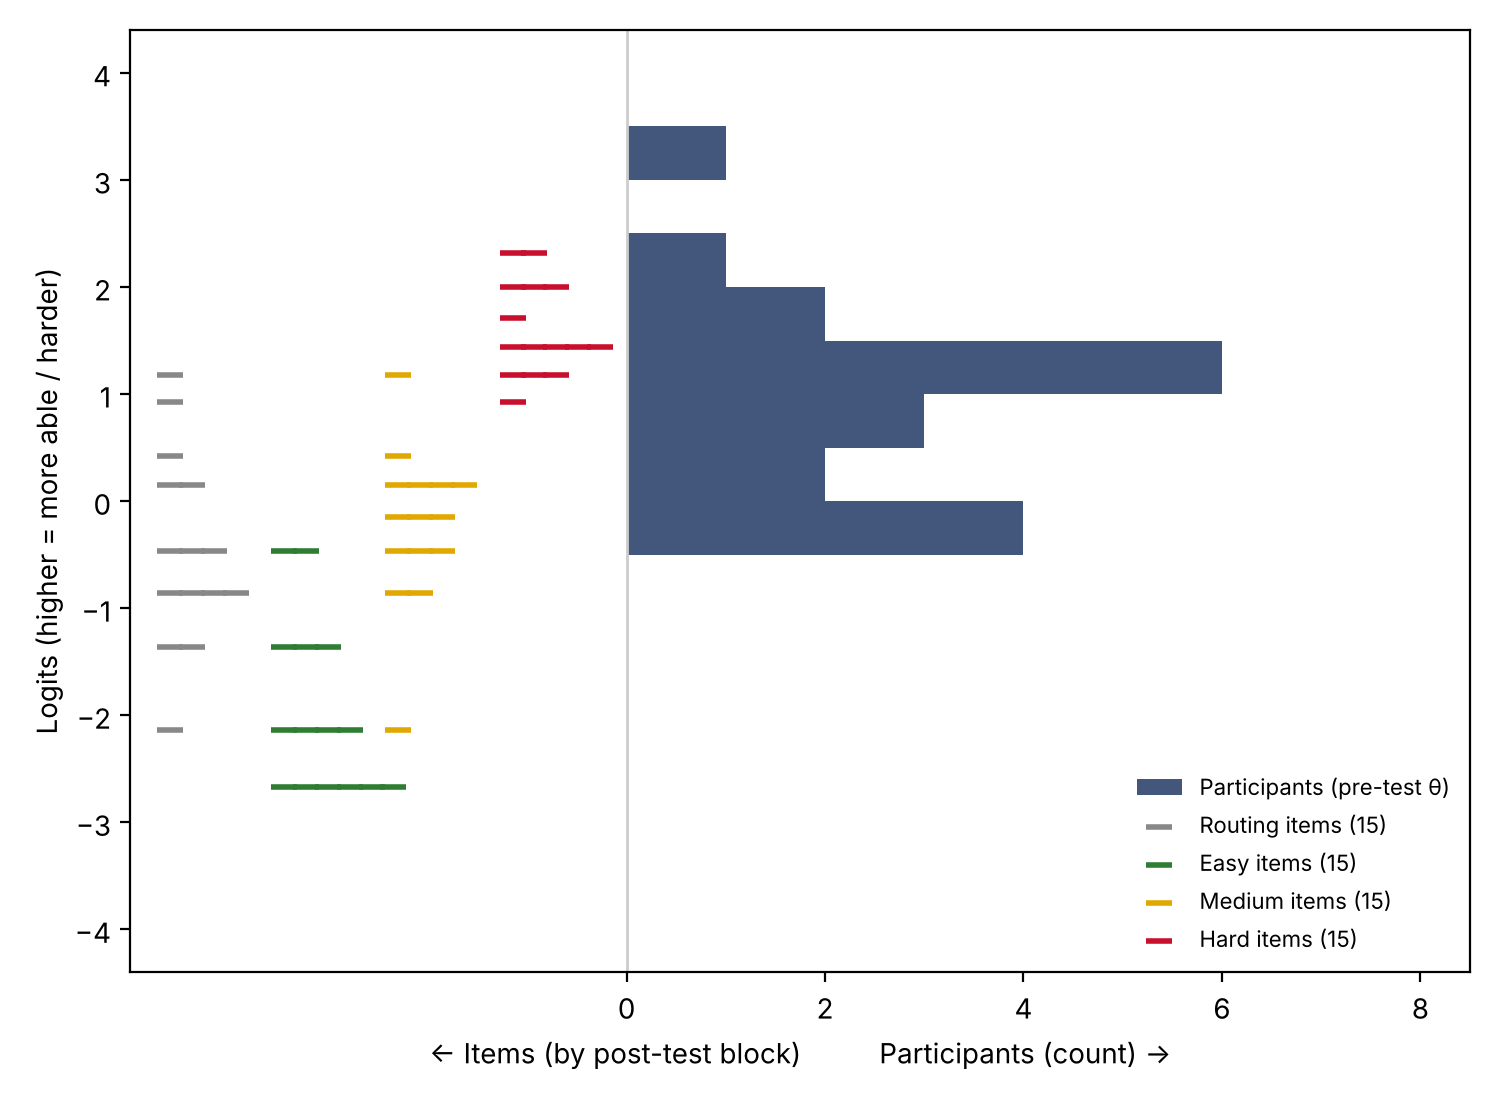
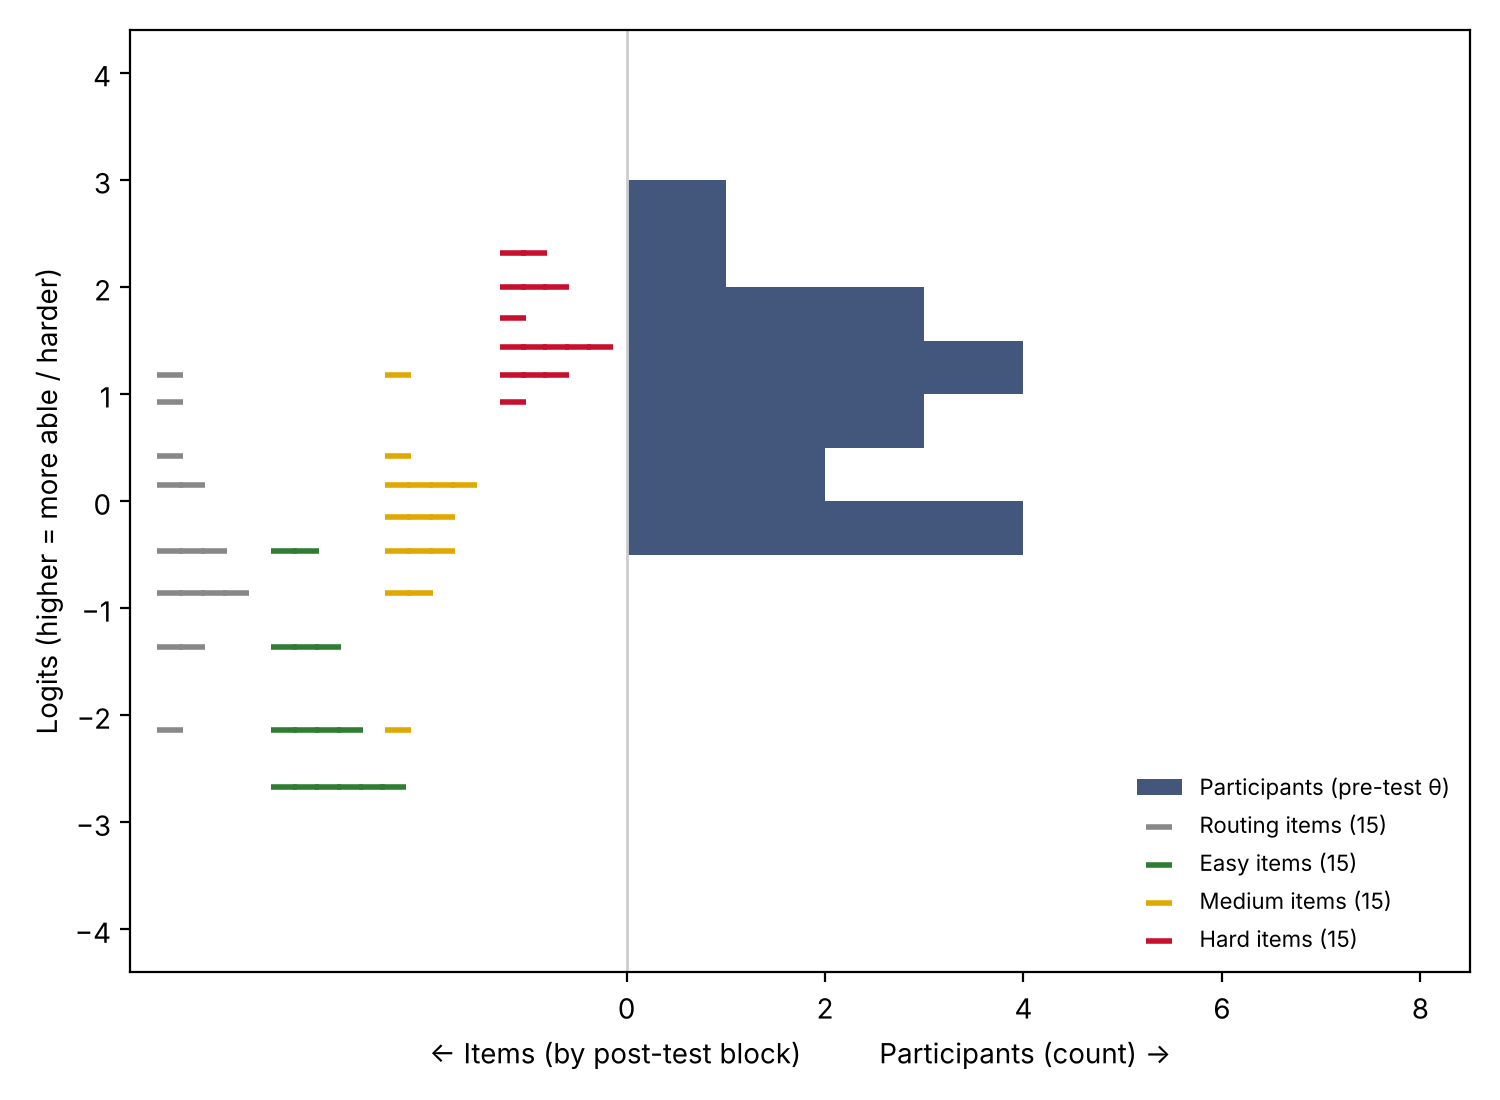
4.2: score abilities by WLE, as the deployed system does
Replaces EAP (N(0,1) prior) with Warm's weighted likelihood estimate and
SE = 1/sqrt(I). Item difficulties (CML) and KR-20 are unchanged.

Claude-Session: https://claude.ai/code/session_01Sik4UtUfsNsnRamd3tfZLj

Changed region(s): [[0.3987, 0.0927, 0.4907, 0.2164], [0.6747, 0.3091, 0.828, 0.3709], [0.552, 0.2473, 0.6133, 0.3091]]

diff --git a/scripts/04_irt.py b/scripts/04_irt.py
@@ -1,7 +1,8 @@
 """4.2: IRT (Rasch) evaluation of the assessment and its adaptive post-test.
 
 The system scores tests with the Rasch (1PL) model: one difficulty b per item,
-ability theta by EAP with a N(0, 1) prior. The post-test adapts by stage: 15
+ability theta by weighted likelihood estimation (WLE; Warm, 1989), as in the
+deployed scoring. The post-test adapts by stage: 15
 routing items for everyone, then an easy, medium or hard block of 15 chosen by
 the routing score (cuts 6 / 12). The blocks were built from item difficulties
 estimated on the pre-tests.
@@ -9,9 +10,9 @@ estimated on the pre-tests.
 This script:
   4.2.1 calibrates the 60 items on the pre-test with conditional maximum
         likelihood (CML), with standard errors and infit / outfit mean squares;
-  4.2.2 reports reliability (KR-20, EAP person reliability) and the test and
+  4.2.2 reports reliability (KR-20, WLE person reliability) and the test and
         block information functions;
-  4.2.3 estimates each participant's ability (EAP theta, SE) on the pre-test and
+  4.2.3 estimates each participant's ability (WLE theta, SE) on the pre-test and
         on the post-test, and the Ability Estimation Error (sqrt of mean SE^2);
   4.2.4 checks the difficulty adjustment: block difficulties in order, each
         routed participant's block against the block that is most informative at
@@ -33,12 +34,10 @@ matplotlib.use("Agg")
 import matplotlib.pyplot as plt
 import numpy as np
 import pandas as pd
-from scipy.optimize import minimize
+from scipy.optimize import brentq, minimize
 
 from common import RESULTS, load, study_participants
 
-GRID = np.arange(-6, 6.0001, 0.05)
-PRIOR = np.exp(-0.5 * GRID ** 2)
 
 design = next(d for d in load("test_designs") if d["_id"] == "post")
 BLOCKS = ["routing", "easy", "medium", "hard"]
@@ -104,16 +103,20 @@ def p_correct(theta, b):
     return 1 / (1 + np.exp(-(theta - b)))
 
 
-def eap(resp):
-    """resp: list of (b, correct). EAP theta and posterior SD on the grid."""
-    like = np.ones_like(GRID)
-    for b, y in resp:
-        pr = p_correct(GRID, b)
-        like *= pr if y else 1 - pr
-    w = like * PRIOR
-    w /= w.sum()
-    m = (w * GRID).sum()
-    return m, np.sqrt((w * (GRID - m) ** 2).sum())
+def wle(resp):
+    """resp: list of (b, correct). Warm's (1989) weighted likelihood estimate and its SE,
+    1 / sqrt(I(theta)). Finite for all-correct and all-wrong patterns."""
+    bs = np.array([b for b, _ in resp]); ys = np.array([float(y) for _, y in resp])
+
+    def score(th):
+        pr = p_correct(th, bs)
+        i = (pr * (1 - pr)).sum()
+        j = (pr * (1 - pr) * (1 - 2 * pr)).sum()
+        return (ys - pr).sum() + j / (2 * i)
+
+    th = brentq(score, -10, 10)
+    pr = p_correct(th, bs)
+    return th, 1 / np.sqrt((pr * (1 - pr)).sum())
 
 
 def info(theta, bs):
@@ -124,12 +127,12 @@ def info(theta, bs):
 # person estimates on the pre-test (calibrated items only)
 persons = []
 for code, row in X.iterrows():
-    th, se = eap([(B[i], row[i]) for i in est_items])
+    th, se = wle([(B[i], row[i]) for i in est_items])
     persons.append({"code": code, "pre_score": int(row.sum()), "pre_items": len(items),
                     "theta_pre": th, "se_pre": se})
 persons = pd.DataFrame(persons).set_index("code")
 
-# infit / outfit at the EAP thetas
+# infit / outfit at the WLE thetas
 fit = []
 for i in est_items:
     th = persons.loc[X.index, "theta_pre"].values
@@ -164,7 +167,8 @@ def kr20(m):
 
 
 kr20_pre = kr20(X.values)
-eap_rel_pre = persons.theta_pre.var(ddof=1) / (persons.theta_pre.var(ddof=1) + (persons.se_pre ** 2).mean())
+# WLE person reliability: the share of the variance of the estimates that is not error
+wle_rel_pre = 1 - (persons.se_pre ** 2).mean() / persons.theta_pre.var(ddof=1)
 
 # block b's: items without an estimate (everyone right / wrong) get the extreme-score
 # value the app uses, b = ln((1 - p) / p) with p clamped half a response from 0 / 1
@@ -185,15 +189,15 @@ for code, d in post.items():
     resp = d["resp"]
     rt = [(BB[x["itemId"]], bool(x["correct"])) for x in resp if x.get("block") == "routing"]
     allr = [(BB[x["itemId"]], bool(x["correct"])) for x in resp]
-    th_r, se_r = eap(rt)
-    th_p, se_p = eap(allr)
+    th_r, se_r = wle(rt)
+    th_p, se_p = wle(allr)
     routed = d["routing"]["block"]
     inf = {bl: info(th_r, block_b[bl]) for bl in ("easy", "medium", "hard")}
     best = max(inf, key=inf.get)
     stage2 = [bb for bb, _ in allr[len(rt):]]
     gaps = {bl: abs(th_p - np.mean(block_b[bl])) for bl in ("easy", "medium", "hard")}
     # SE the participant would have had with each block instead (routing + block)
-    se_alt = {bl: 1 / np.sqrt(info(th_p, [b for b, _ in rt] + block_b[bl]) + 1) for bl in ("easy", "medium", "hard")}
+    se_alt = {bl: 1 / np.sqrt(info(th_p, [b for b, _ in rt] + block_b[bl])) for bl in ("easy", "medium", "hard")}
     prow.append({"code": code, "routing_score": d["routing"]["score"], "routed_block": routed,
                  "theta_routing": th_r, "se_routing": se_r,
                  "most_informative_block": best, "consistent": routed == best,
@@ -210,7 +214,7 @@ persons.round(4).to_csv(RESULTS / "4_2_irt_persons.csv")
 
 rmse_pre = np.sqrt((persons.se_pre.dropna() ** 2).mean())
 rmse_post = np.sqrt((R.se_post ** 2).mean())
-eap_rel_post = R.theta_post.var(ddof=1) / (R.theta_post.var(ddof=1) + (R.se_post ** 2).mean())
+wle_rel_post = 1 - (R.se_post ** 2).mean() / R.theta_post.var(ddof=1)
 
 # --- figures ----------------------------------------------------------------------------
 fig, ax = plt.subplots(figsize=(7.5, 5.5), dpi=200)
@@ -262,17 +266,17 @@ lines = [
     f"misfit: {', '.join(it.index[it.fit == 'misfit']) or '-'}",
     "",
     "4.2.2 Reliability and information",
-    f"  KR-20 pre-test: {kr20_pre:.3f}; EAP person reliability pre-test: {eap_rel_pre:.3f}",
+    f"  KR-20 pre-test: {kr20_pre:.3f}; WLE person reliability pre-test: {wle_rel_pre:.3f}",
     "  block mean b: " + ", ".join(f"{bl} {np.mean(block_b[bl]):.2f}" for bl in BLOCKS)
     + f"; easy < medium < hard: {order_ok}",
     "  ability where each block gives most information: "
     + ", ".join(f"{bl} {th[np.argmax(info(th, block_b[bl]))]:.2f}" for bl in BLOCKS),
     "",
-    "4.2.3 Ability estimates (EAP, N(0,1) prior)",
+    "4.2.3 Ability estimates (WLE)",
     f"  pre-test theta: mean {persons.theta_pre.mean():.2f}, SD {persons.theta_pre.std():.2f}; "
     f"Ability Estimation Error sqrt(mean SE^2) = {rmse_pre:.3f} (60 items)",
     f"  post-test theta: mean {R.theta_post.mean():.2f}, SD {R.theta_post.std():.2f}; "
-    f"Ability Estimation Error = {rmse_post:.3f} (30 items); EAP reliability {eap_rel_post:.3f}",
+    f"Ability Estimation Error = {rmse_post:.3f} (30 items); WLE reliability {wle_rel_post:.3f}",
     "",
     "4.2.4 Adaptive difficulty (two-stage routing, cuts " + "/".join(map(str, design["cuts"])) + ")",
     "  routed: " + ", ".join(f"{b} {n}" for b, n in R.routed_block.value_counts().items()),
